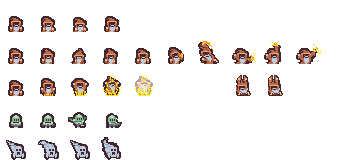
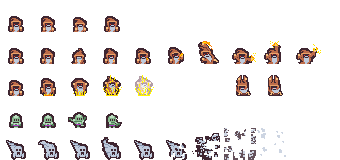
Flying enemy redone

Changed region(s): [[0.3824, 0.7812, 0.8235, 1.0], [0.8235, 0.9375, 0.8529, 0.9688]]

diff --git a/Assets/EnemyFlyingBasic.cs b/Assets/EnemyFlyingBasic.cs
@@ -11,22 +11,20 @@ public class EnemyFlyingBasic : EnemyBehaviour
     public override void Attack(float time)
     {
         timer -= time;
-        if (timer <= 0)
+        if (timer <= 0 && timer >= -0.1f)
         {
             isSearching = false;
             stop = false;
             animator.SetTrigger("Attack");
-            if (Vector3.Distance(transform.position, enemyTarget.transform.position) <= 0.1f)
-            {
-                stop = true;
-                EndAttack();
-            }
+        }
+        if (Vector3.Distance(transform.position, enemyTarget.transform.position) <= 0.2f)
+        {
+            animator.SetBool("Explode", true);
         }
 
     }
     public void EndAttack()
-    {
-        animator.SetBool("Explode", true);
+    {    
         AttackForm -= Attack;
         DamagePlayer();
         TakeDamage(100);

diff --git a/Assets/Scripts/Data/EntityData.cs b/Assets/Scripts/Data/EntityData.cs
@@ -72,7 +72,7 @@ public class EntityData
     };
     public static Wave LevelOneWaveOne = new Wave
     {
-        amount = new List<int> { 4 , 0 }
+        amount = new List<int> { 0 , 6 }
     };
     public static Wave LevelOneWaveTwo = new Wave
     {

diff --git a/Assets/Scripts/Enemies/EnemyManager.cs b/Assets/Scripts/Enemies/EnemyManager.cs
@@ -69,7 +69,6 @@ public class EnemyManager : MonoBehaviour
 
     public void RemoveFromPool(EnemyBehaviour enemyToRemove)
     {
-        Debug.Log("Remove from pool");
         currentEnemies.Remove(enemyToRemove);
     }
 
